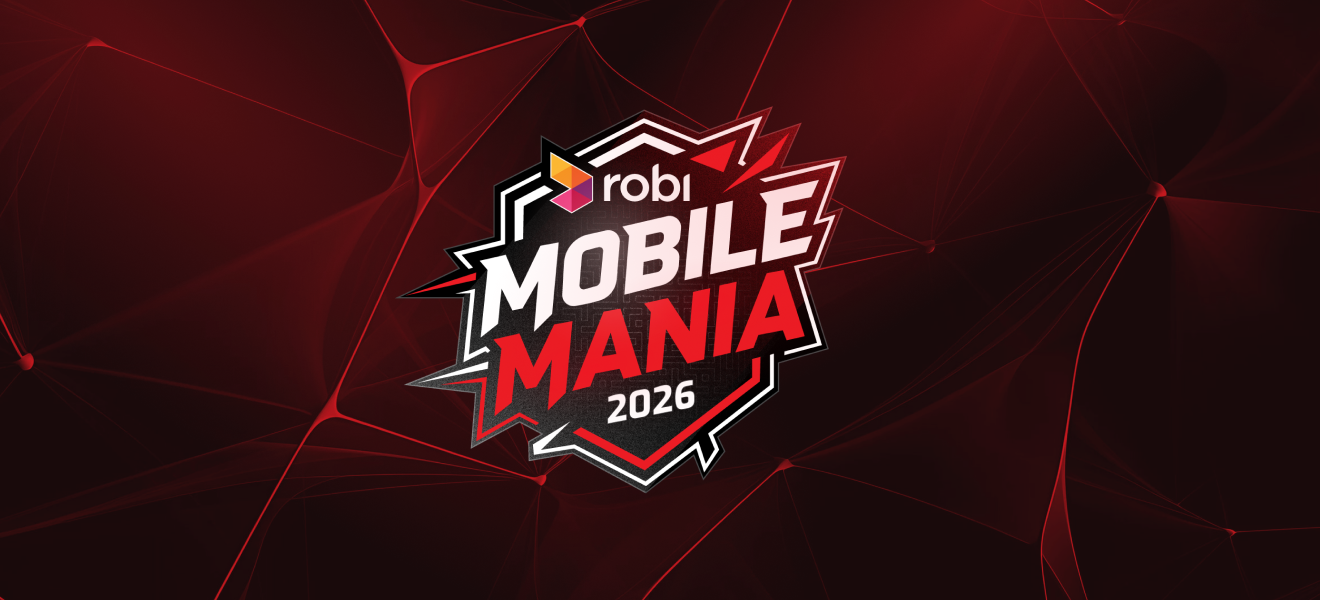
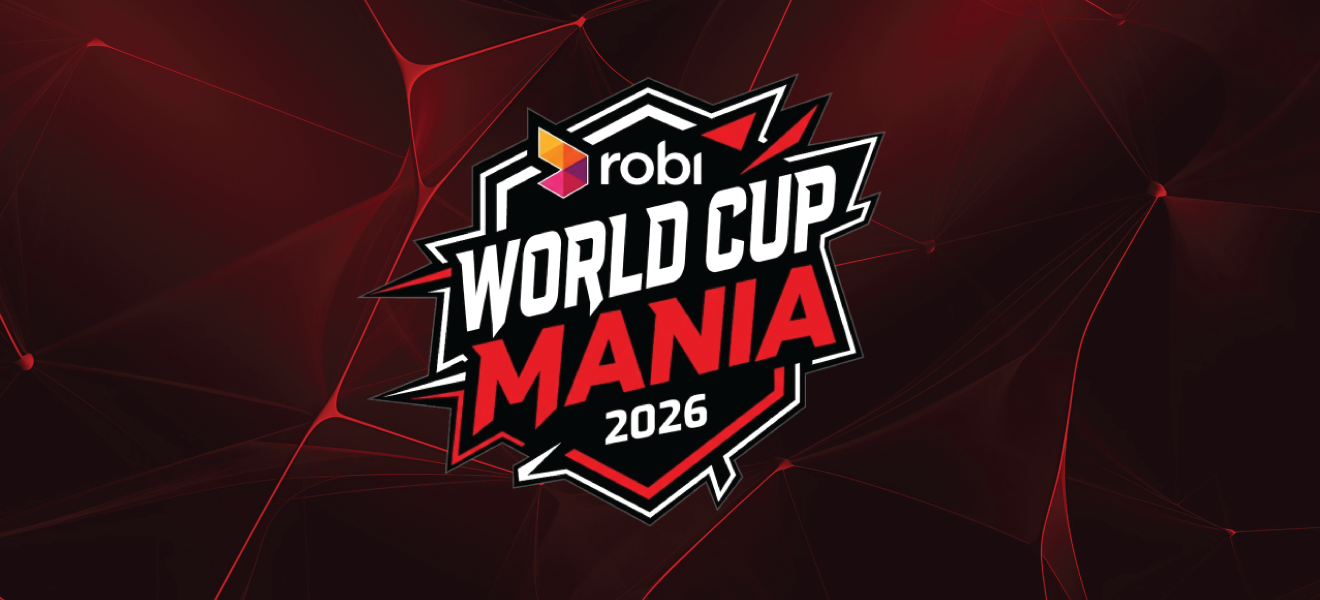
prizepool and ogimage updated

Changed region(s): [[0.2795, 0.12, 0.6833, 0.87]]

diff --git a/src/lib/data/tourData.ts b/src/lib/data/tourData.ts
@@ -1,10 +1,10 @@
 
 export const tourData = {
-    name: "Robi Mobile Mania 2026",
-    shortName: "robimm26",
-    codeName: "robimm26",
+    name: "Robi World Cup Mania 2026",
+    shortName: "robiwcm26",
+    codeName: "robiwcm26",
     logo: "/logo.png",
-    prizePool: "00,00,000.00 BDT",
+    prizePool: "10,00,000.00 BDT",
     emailAddress: "noreply@email.zeneticesports.com",
 }
 
@@ -74,7 +74,7 @@ export const games: typeof gamesData = gamesData
 // export const rulebooks = {
 //     fc25: {
 //         url: "https://nysbp6tkf5.ufs.sh/f/wKNWEI3FuoqhR5mxKLXKCYZUq8uGzO3WtFVI0EQ6RwcABmfP",
-//         title: "Robi Mobile Mania Rulebook",
+//         title: "Robi World Cup Mania Rulebook",
 //         description: `The rulebook for ${tourData.name}`,
 //         redirect: false,
 //     },

diff --git a/src/lib/data/siteData.ts b/src/lib/data/siteData.ts
@@ -8,7 +8,7 @@ export const siteData: TSiteData = {
   name: tourData.name,
   shortName: tourData.shortName,
   publisher: "zeneticesports.com",
-  baseUrl: "robimm26.vercel.app",
+  baseUrl: "robiwcm26.vercel.app",
   description:
     `A tournament hosted by Robi & Zenetic Esports. Featuring a total prize pool of ${tourData.prizePool}, the tournament will be broadcast in Bengali for 4 hours daily, bringing intense rivalries to life.`,
   ogImage: { src: '/ogImage.png', alt: 'Bunext', width: 1200, height: 630 },

diff --git a/src/actions/registrationAction.ts b/src/actions/registrationAction.ts
@@ -68,7 +68,7 @@ export const submitRegistration = async (
         const { data, error } = await resend.emails.send({
             from: 'Zeneti Esports <noreply@email.zeneticesports.com>',
             to: [vData.email],
-            subject: 'Robi Mobile Mania 2026 Registration Confirmation',
+            subject: 'Robi World Cup Mania 2026 Registration Confirmation',
             react: RegConfirmationEmail({
                 name: vData.fullName,
                 timestamp: new Date(),
